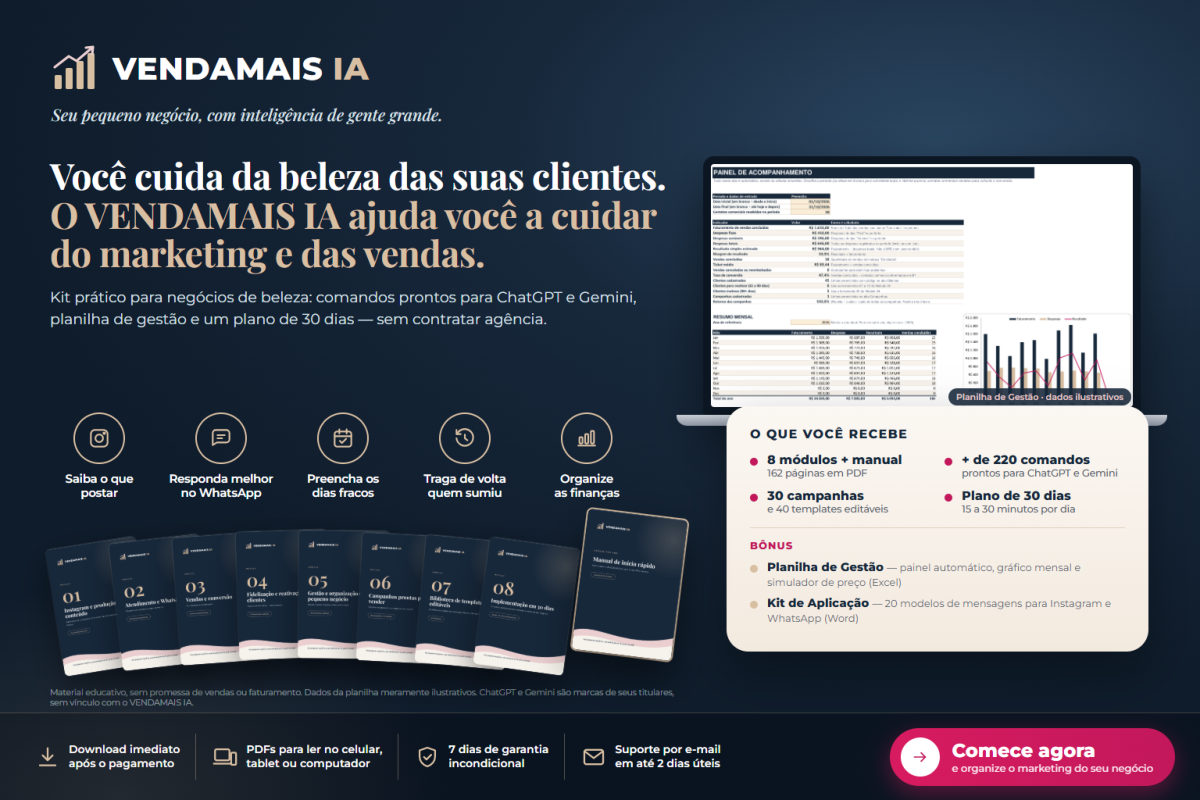
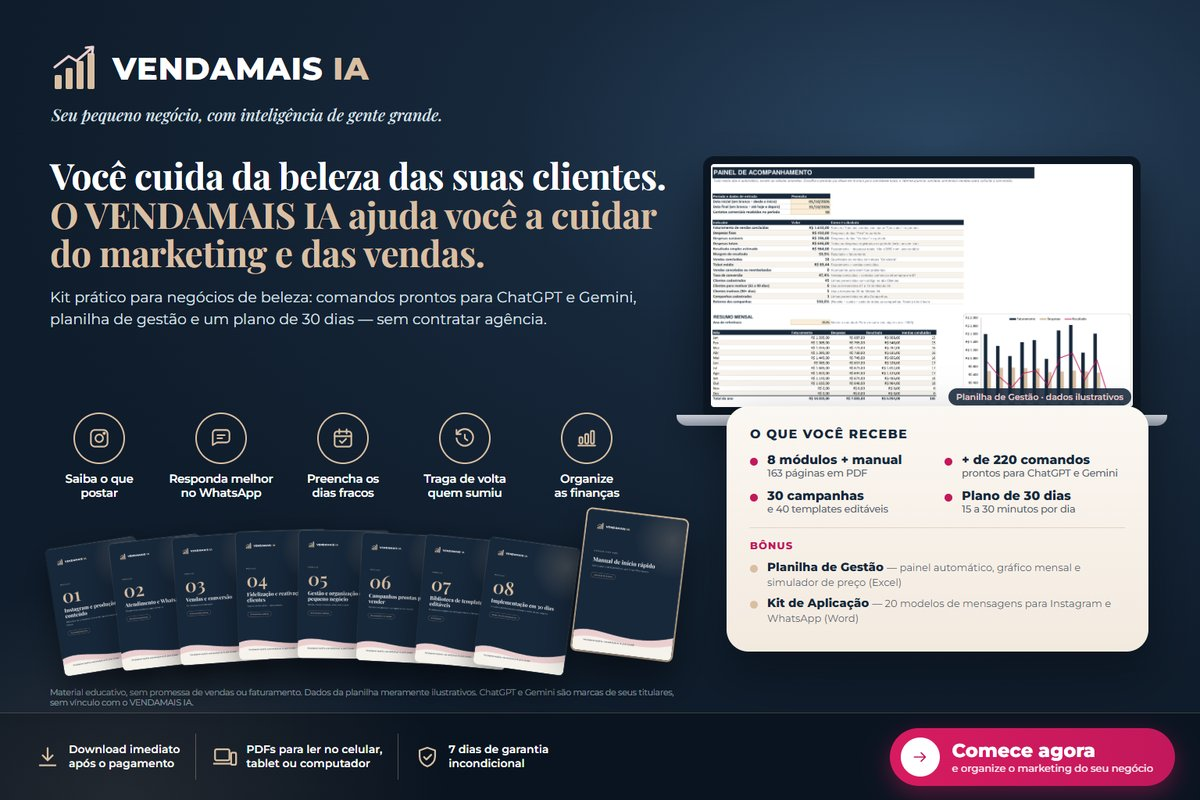
Imagem do produto 300x250 e og.jpg sem a menção a suporte
O og.jpg (prévia do link) vinha de uma arte antiga com 'Suporte por e-mail
em até 2 dias úteis' e '162 páginas'. Agora é a arte horizontal atual reduzida.

Claude-Session: https://claude.ai/code/session_01V2PkBjbxiQ64CLkHDBmRmA

diff --git a/CLAUDE.md b/CLAUDE.md
@@ -32,7 +32,8 @@ Kit digital para negócios de beleza: 8 módulos em PDF + Manual de início ráp
 | `empacotar.py`, `entrega_modelo/LEIA-ME.txt` | Pacote de entrega para a plataforma (pasta organizada + ZIP) | `python empacotar.py` → `entrega/VENDAMAIS_IA/` e `entrega/VENDAMAIS_IA_v1.zip` |
 | `anuncios/criativos.mjs`, `anuncios/ANUNCIOS.md` | 10 criativos para Meta (6 estáticos em 4:5 e 9:16, 4 carrosséis 1:1) e a copy de cada um | `node anuncios/criativos.mjs` → `anuncios/out/` |
 | `planilha/ajustar.py` | Gera a Planilha v2 a partir de `planilha/original.xlsx` | `cd planilha && python ajustar.py` (`--teste` cria cópia com dados fictícios) |
-| `oferta/arte.mjs` | Artes de venda (horizontal e feed) | `node oferta/arte.mjs` |
+| `oferta/arte.mjs` | Artes de venda (horizontal e feed). `pagina/img/og.jpg` é a arte horizontal reduzida para 1200x800: gerar de novo quando a arte mudar | `node oferta/arte.mjs` |
+| `oferta/imagem_produto.mjs` | Imagem do produto na Kiwify (300x250) | `node oferta/imagem_produto.mjs` → `oferta/VENDAMAIS_IA_Produto_300x250.png` |
 | `oferta/demo_planilha.py` | Planilha com dados ilustrativos para imagens | `python oferta/demo_planilha.py` |
 | `publicar.py` | Site público (só as 4 páginas + `img/og.jpg`) para o Cloudflare Pages. Nunca publicar a raiz do repositório | `python publicar.py` → `site/` e `site.zip`; `--enviar` publica em https://vendamais-ia.pages.dev |
 | `pagina/fonte-*.html` | Fonte da página de vendas e da de obrigado | `python embutir.py` → `pagina/index.html` e `obrigado.html` com imagens embutidas (manter abaixo de ~500 KB) |
